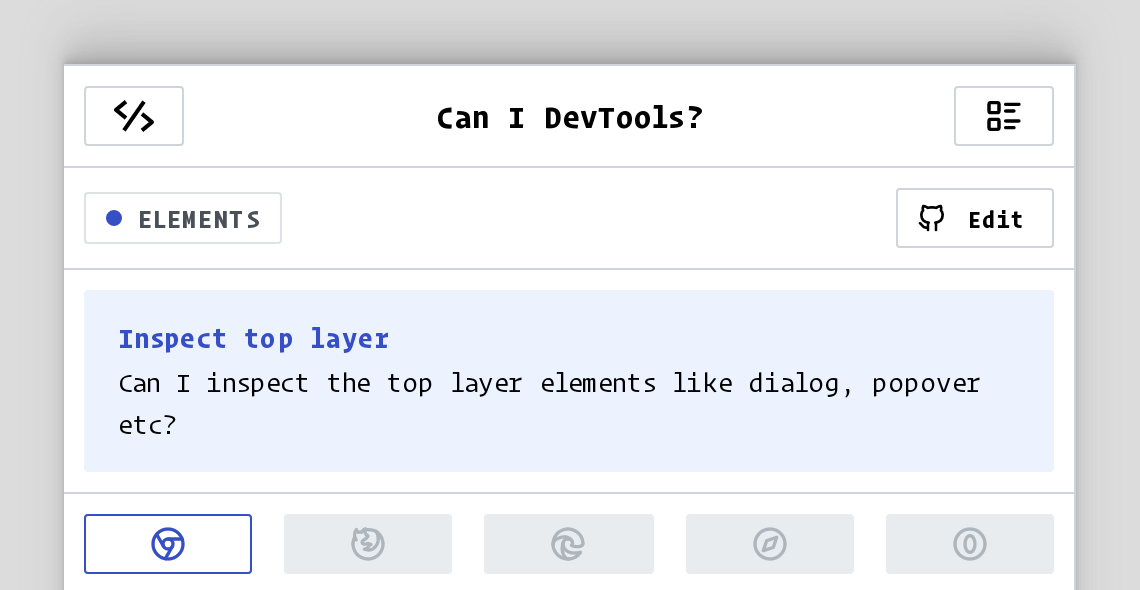
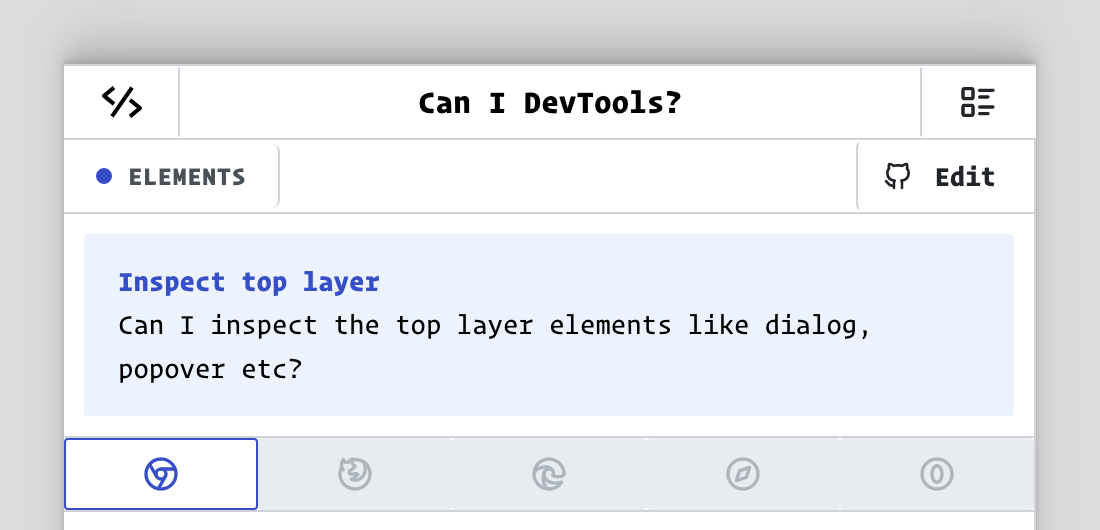
Updated styles

diff --git a/app/routes/$feature.jsx b/app/routes/$feature.jsx
@@ -113,11 +113,13 @@ export default function Feature() {
 				>
 					<Group position="apart">
 						<Badge
-							radius="xs"
+							radius="sm"
 							variant="dot"
 							size="lg"
 							p="md"
 							color={colors[feature.Category]}
+							styles={{ root: { border: 0 } }}
+							sx={theme => ({ borderRight: borderColor(theme) })}
 						>
 							{feature.Category}
 						</Badge>

diff --git a/README.md b/README.md
@@ -1047,7 +1047,7 @@
  1. In **Styles** pane, hover the variable name to see the actual value in the tooltip. Click the link to jump to the section where the variable is defined.
 
 ## 77. Jump to Id 
- Can I jump to the target element with an id? 
+ Can I jump to the target element with an id from the source element? 
 - [Firefox](https://canidev.tools/jump-to-id/firefox) 
  1. Firefox links the element referencing the ID attribute to its target element in the same DOM, highlighted with an underline.
 2. Use `Cmd+Click` or `Ctrl+Click` to jump to the target element with the identifier.
